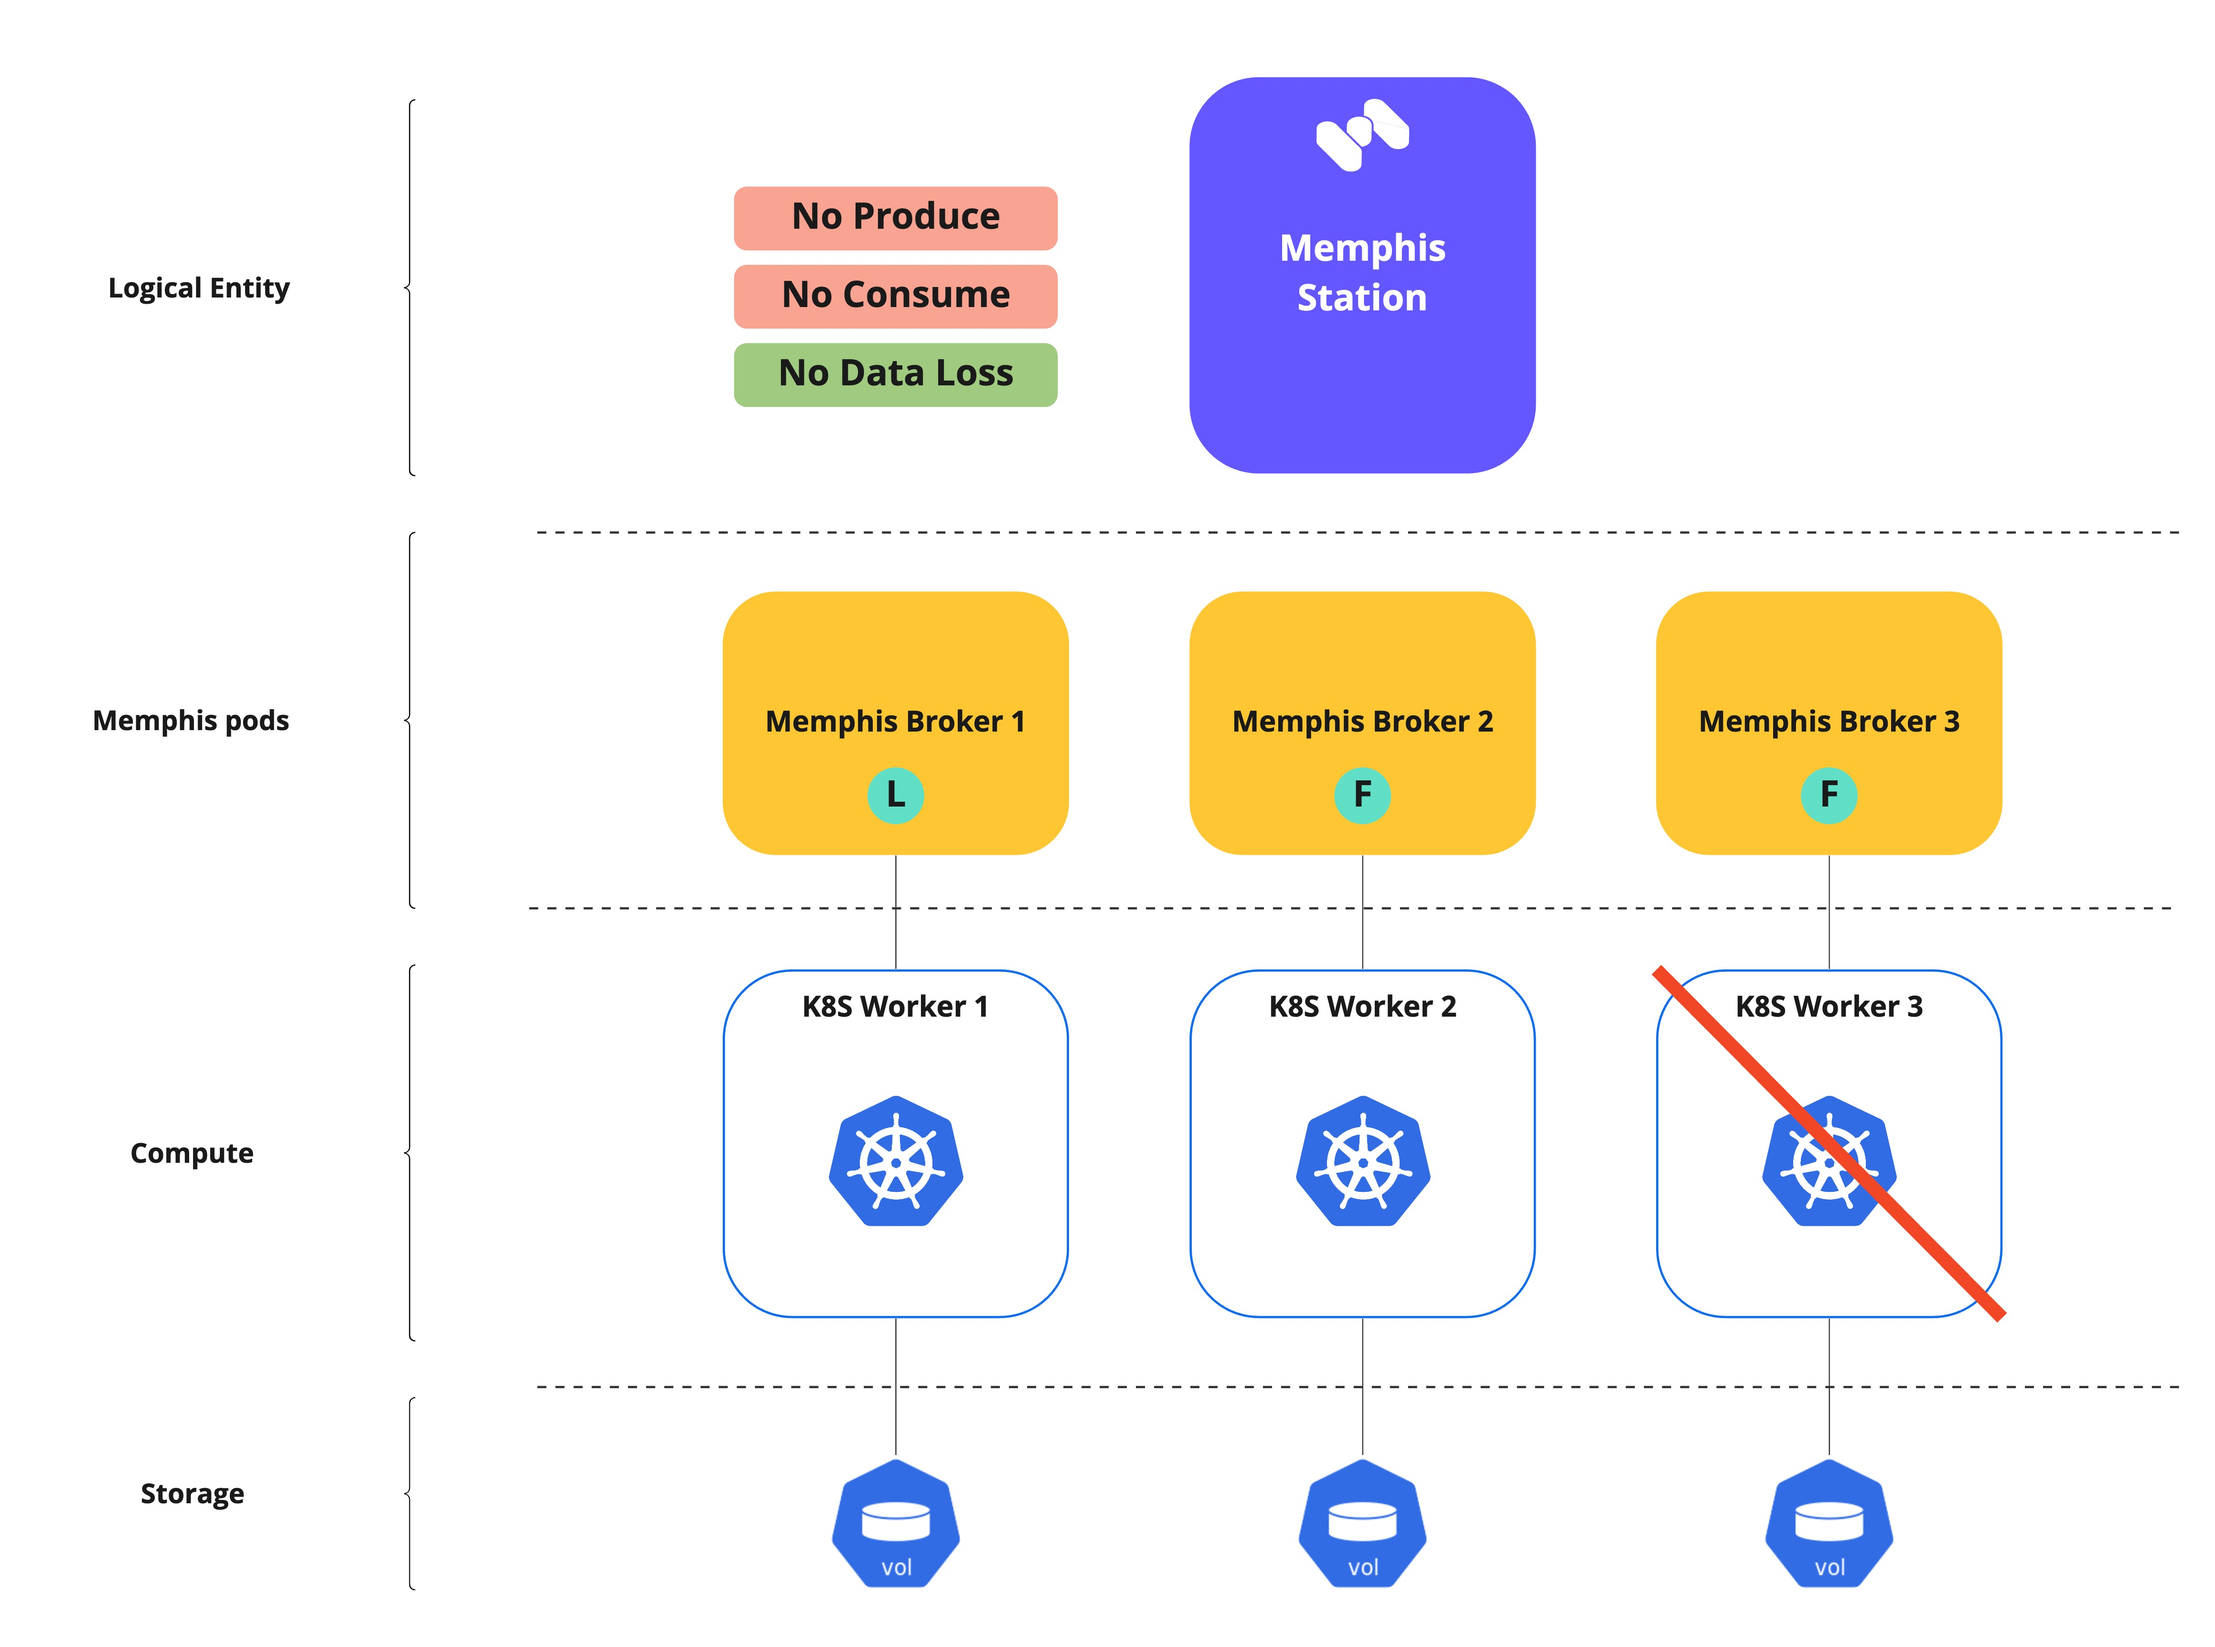
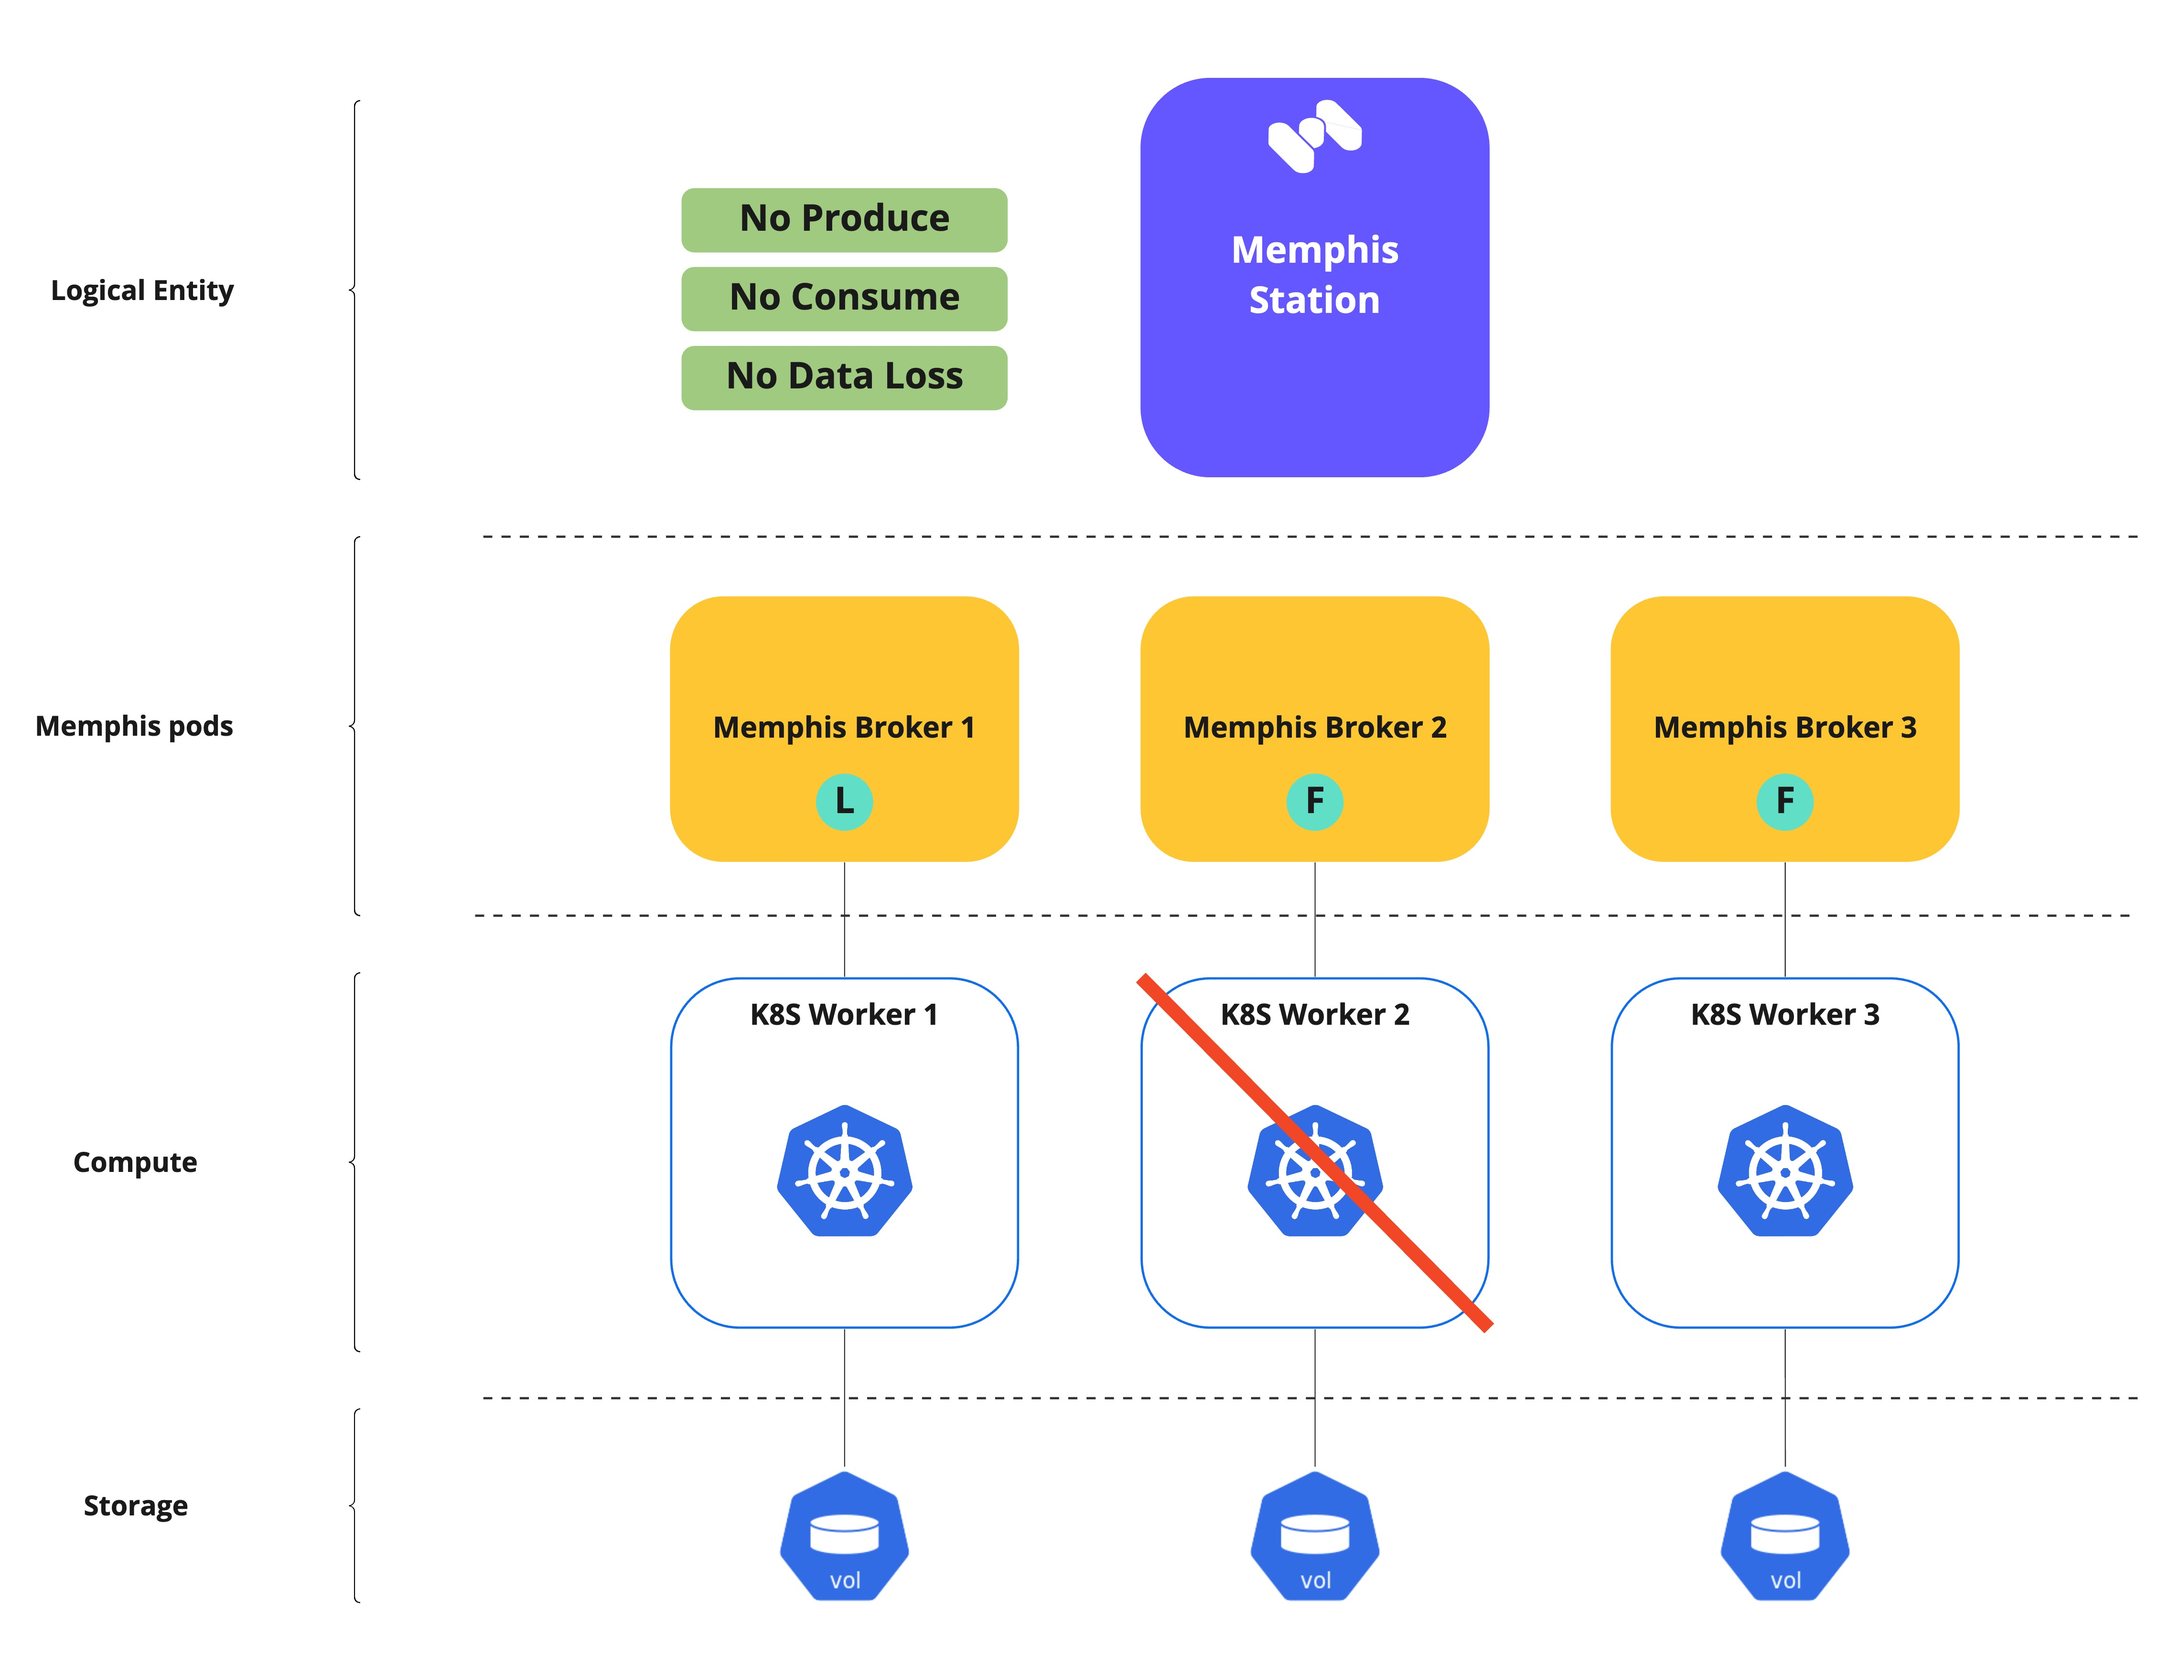
GitBook: [#601] No subject

diff --git a/memphis/failure-scenarios.md b/memphis/failure-scenarios.md
@@ -93,3 +93,9 @@ Produce/Consume will be stopped until at least one replica/follower is available
 
 </div>
 
+The Kubernetes cluster is down, and therefore the Memphis cluster is down as well.
+
+Produce/Consume will be stopped until at least one leader and replica/follower are available. No data loss.
+
+<figure><img src="../.gitbook/assets/k8s 6.jpeg" alt=""><figcaption></figcaption></figure>
+
